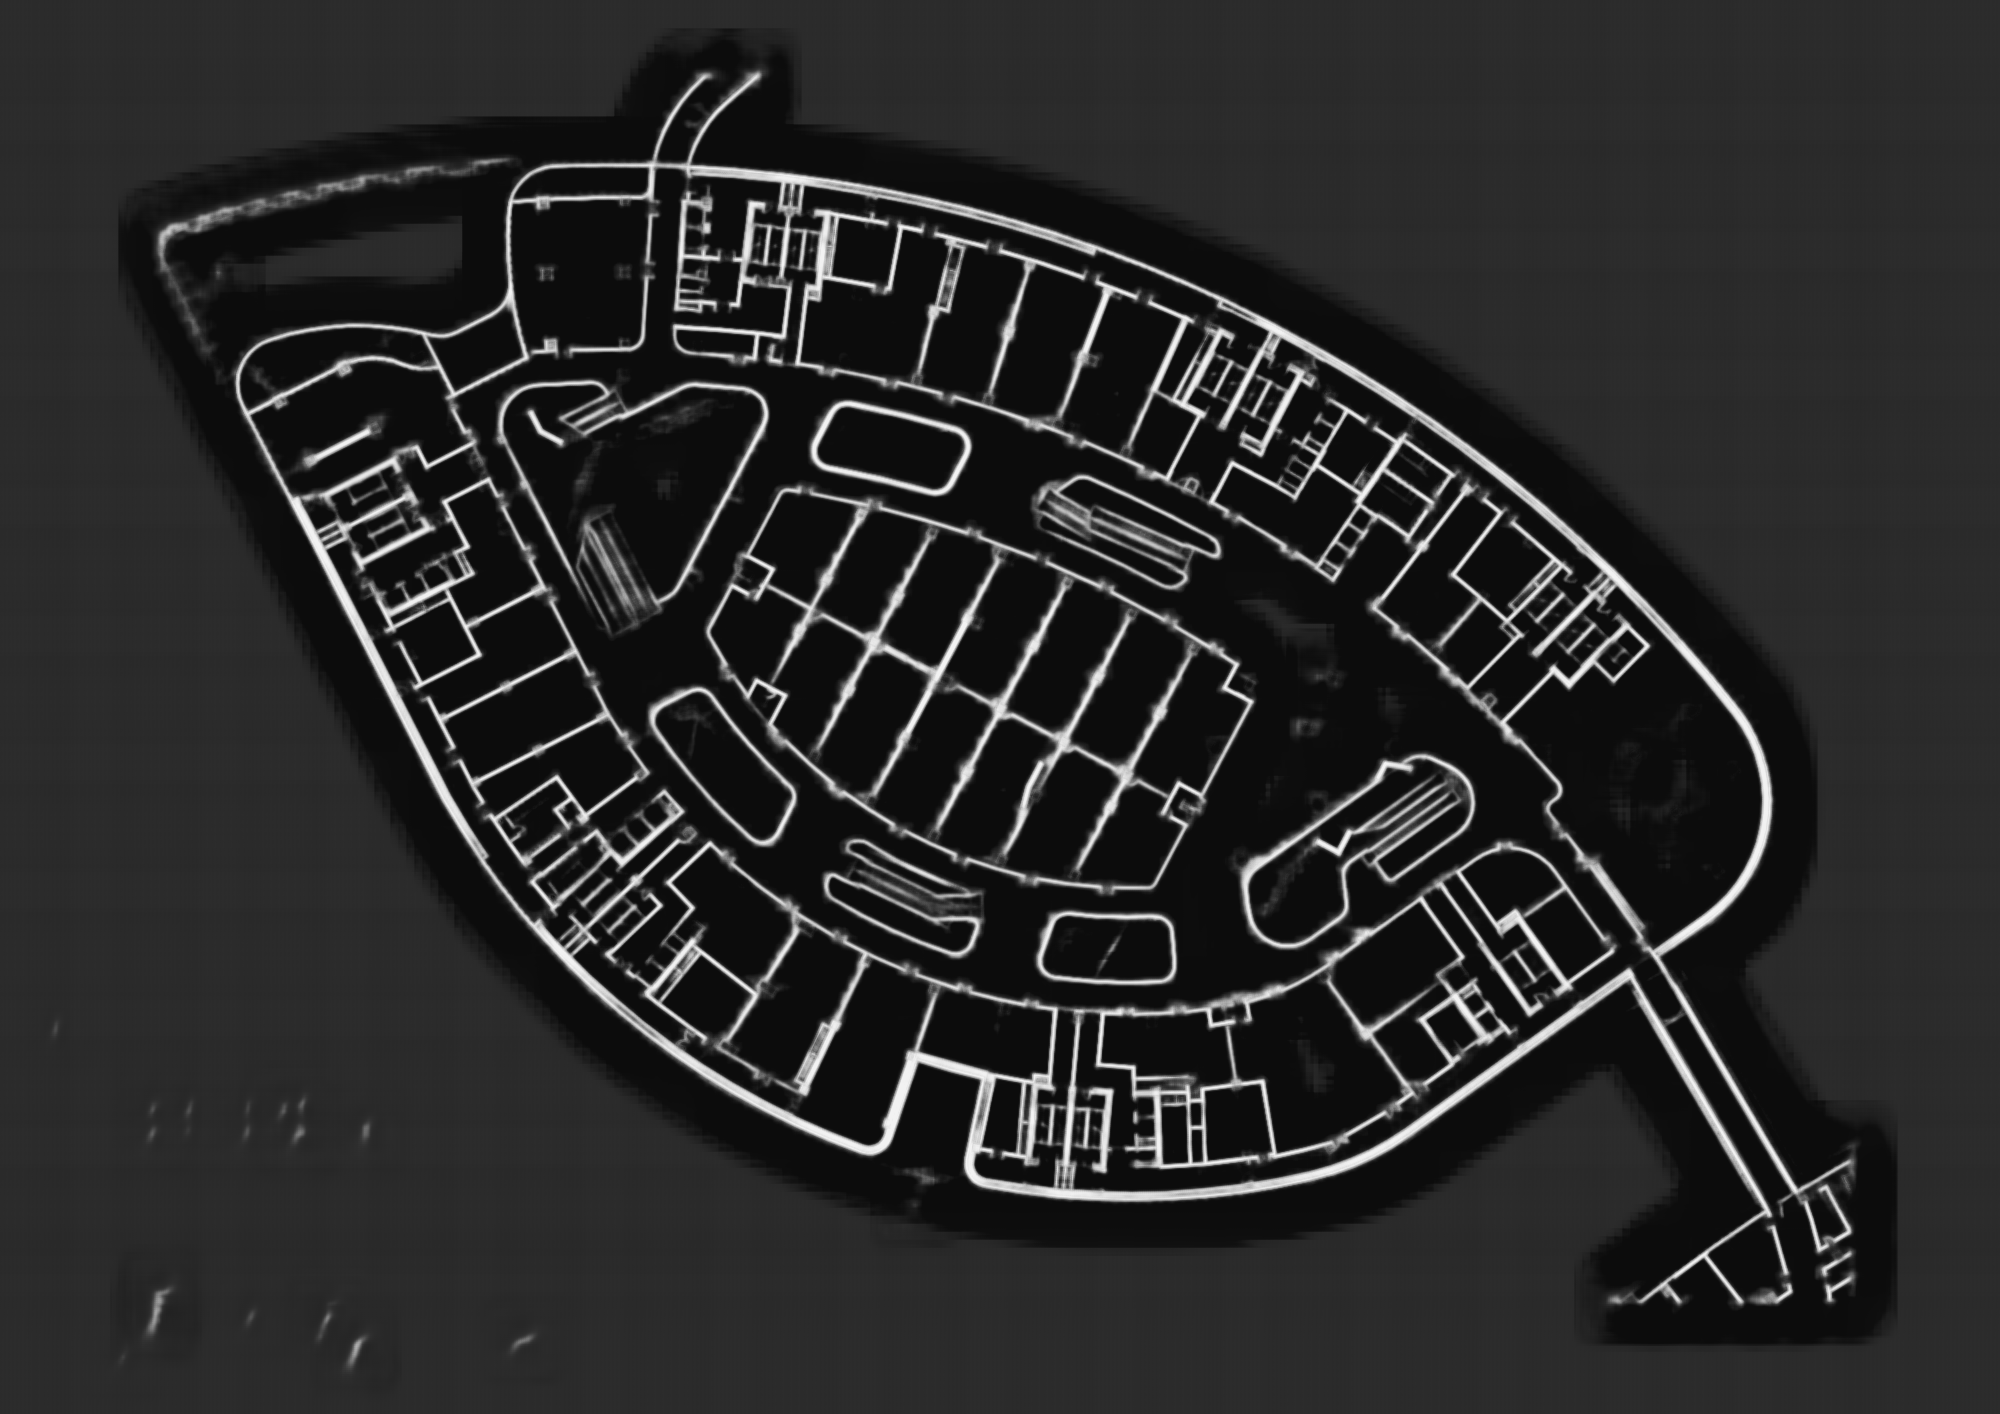
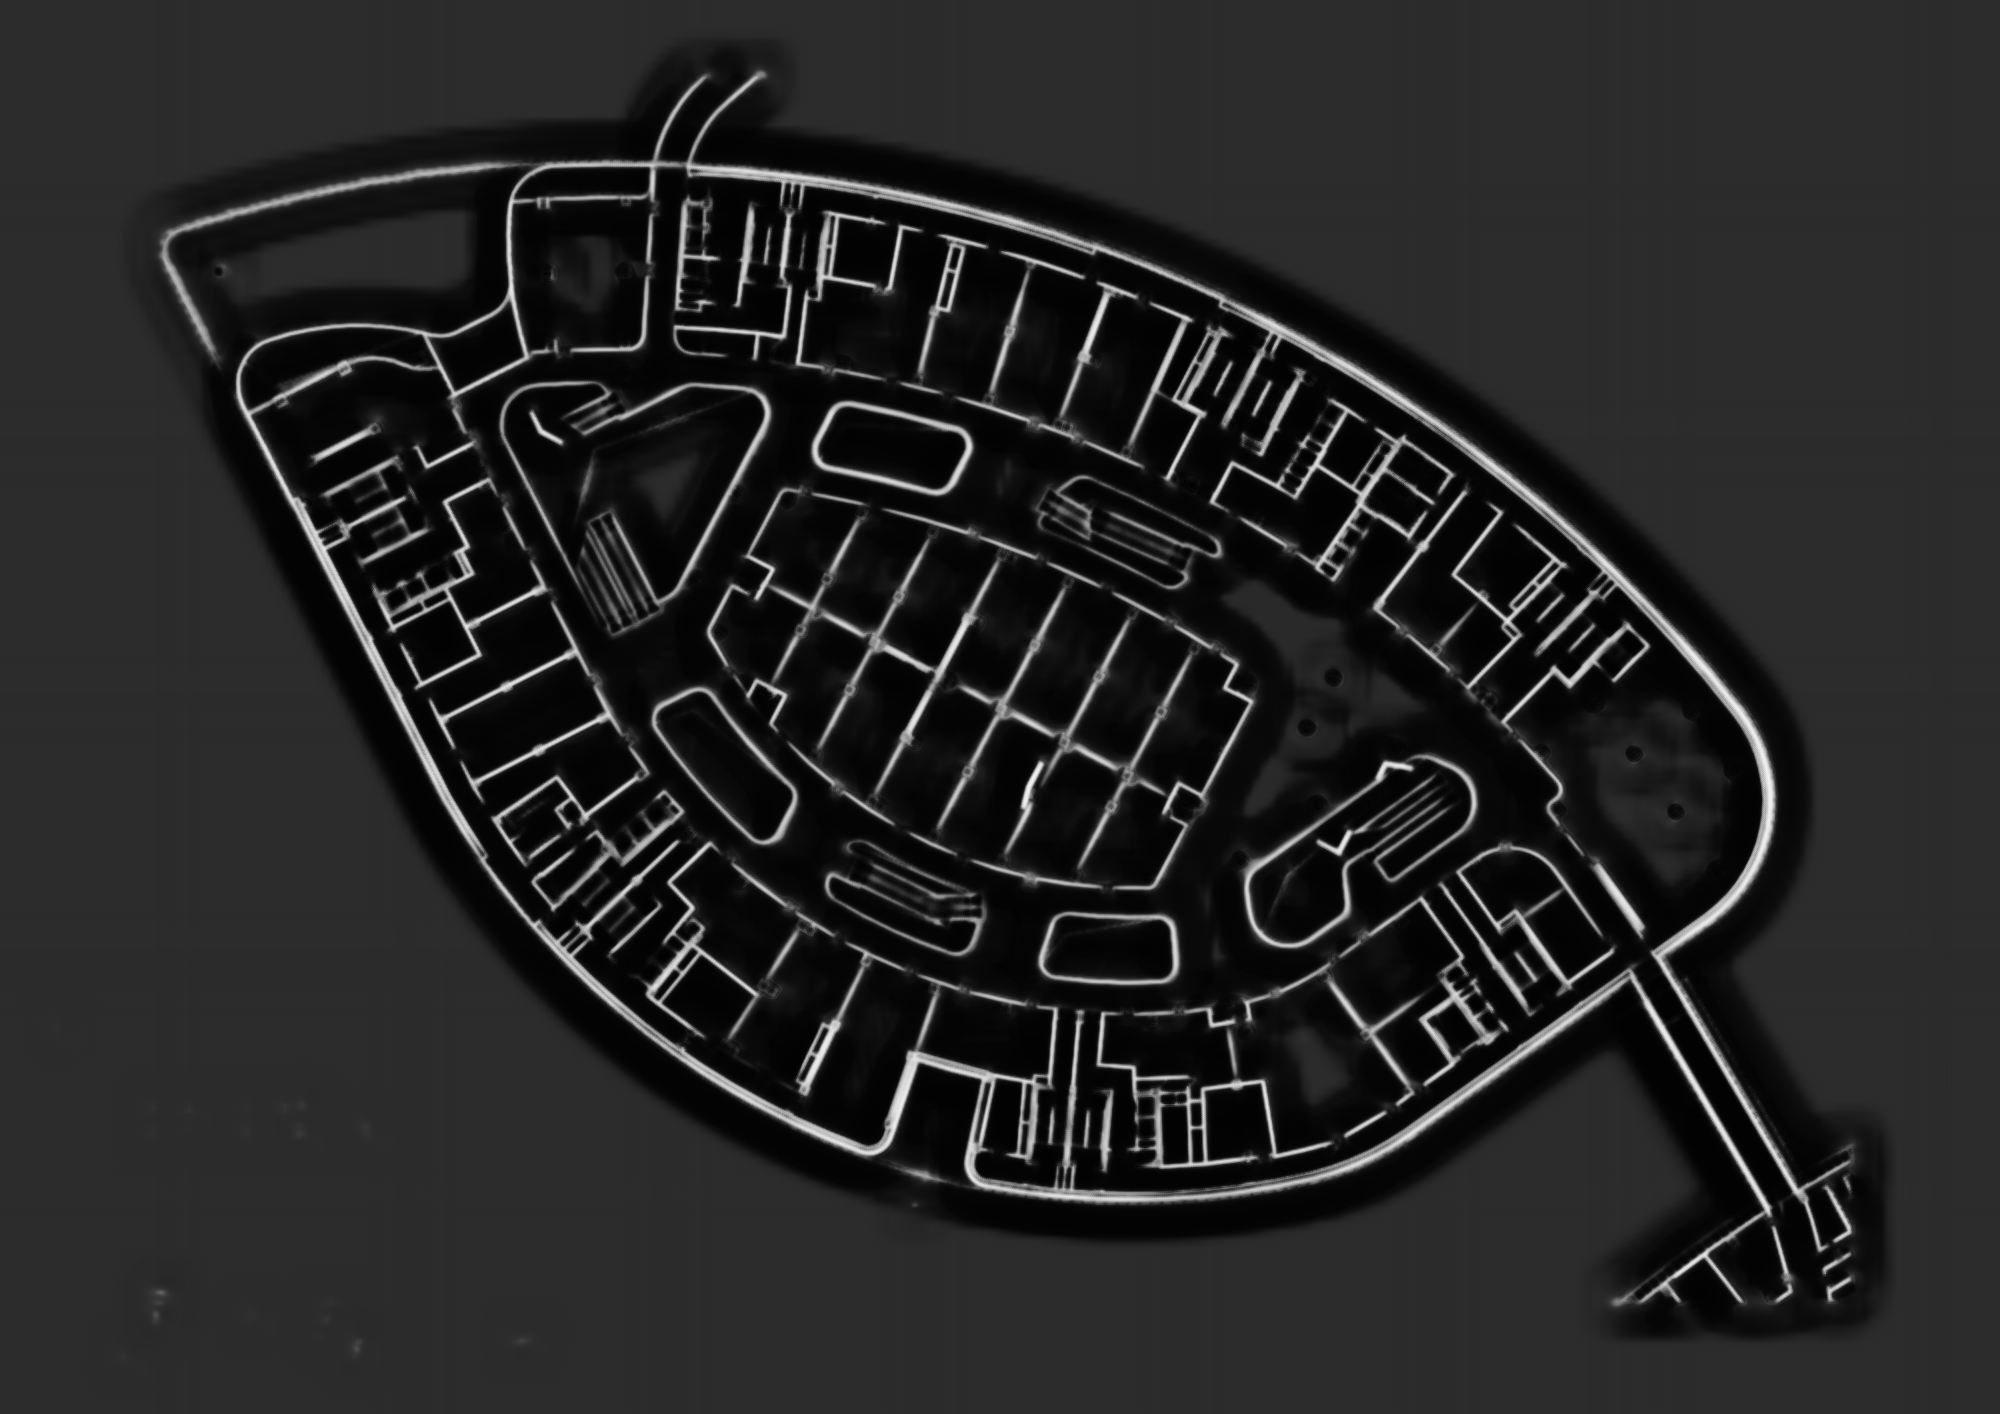
trying out TTA, OTSU and removed morpholofical fill and dialate

diff --git a/predict_tiled.py b/predict_tiled.py
@@ -29,7 +29,17 @@ Training sequence:
 """
 
 # ------------------------------ CONFIG ------------------------------
-PATCH_SIZE = 256
+PATCH_SIZE = 512
+"""
+this is the ammount of data the parser has access to while parsing 
+a single portion/segment, the more the number the more time consuming 
+it is gonna be and the smaller the littler context the parser has 
+about its enviorment, so the parsing becomes shitty
+
+N.B: make sure you change the default stride in the code or when parsing
+an image using the code and keep that to 50% of the PATCH_SIZE or else
+the parsing WILL BE INSANE...
+"""
 # --------------------------------------------------------------------
 
 def parse_args():
@@ -37,6 +47,7 @@ def parse_args():
     p.add_argument("--image",  required=True,              help="Path to input floorplan image")
     p.add_argument("--model",  default="unet.pth",         help="Path to model weights")
     p.add_argument("--stride", type=int, default=128,      help="Patch stride (lower = smoother)")
+    # here you can change the stride number by default it is 128, the bettre alternative is to use whatever you have in the patch size, the 50% of that(because that was kinda the benchmark to prove that this concept even works at the 1st place)
     p.add_argument("--output", default="stitched_mask.png", help="Output filename")
     return p.parse_args()
 
@@ -109,14 +120,38 @@ def main():
                 pw = PATCH_SIZE - patch.shape[1]
                 patch = cv2.copyMakeBorder(patch, 0, ph, 0, pw, cv2.BORDER_REFLECT_101)
 
+            # here the segment f used to parse a single patch once and then give an output
+            
             patch_tensor = preprocess_patch(patch, device)
             with torch.no_grad():
                 pred = model(patch_tensor)
             pred = torch.sigmoid(pred).squeeze().cpu().numpy()
-            pred = np.clip(pred, 0.05, 0.95)
+            pred = np.clip(pred, 0.01, 0.99)
+
+            # here we are trying out TTA(test time augmentaion) where it is going to parse the single patch more than once, 4 times to be exact and then give an weighted average of that parsing to make sure that the parsng is done right 
+
+            # tta_pairs = [
+            #     (lambda x: x,                                           lambda x: x),
+            #     (lambda x: np.flip(x, axis=0).copy(),                  lambda x: np.flip(x, axis=0).copy()),
+            #     (lambda x: np.flip(x, axis=1).copy(),                  lambda x: np.flip(x, axis=1).copy()),
+            #     (lambda x: np.flip(np.flip(x, axis=0), axis=1).copy(), lambda x: np.flip(np.flip(x, axis=0), axis=1).copy()),
+            # ]
+
+            # patch_pred = np.zeros((PATCH_SIZE, PATCH_SIZE), dtype=np.float32)
+            # for aug, inv in tta_pairs:
+            #     tensor = preprocess_patch(aug(patch), device)
+            #     with torch.no_grad():
+            #         pred = model(tensor)
+            #     pred = torch.sigmoid(pred).squeeze().cpu().numpy()
+            #     pred = np.clip(pred, 0.01, 0.99)
+            #     patch_pred += inv(pred)
+            # patch_pred /= len(tta_pairs)
 
             final_mask[y1:y1+PATCH_SIZE, x1:x1+PATCH_SIZE] += pred * weight_map
-            weight_sum[y1:y1+PATCH_SIZE, x1:x1+PATCH_SIZE] += weight_map
+            weight_sum[y1:y1+PATCH_SIZE, x1:x1+PATCH_SIZE] += weight_map      # non TTA 
+
+            # final_mask[y1:y1+PATCH_SIZE, x1:x1+PATCH_SIZE] += patch_pred * weight_map
+            # weight_sum[y1:y1+PATCH_SIZE, x1:x1+PATCH_SIZE] += weight_map        # TTA
 
             pbar.update(1)
 
@@ -132,11 +167,35 @@ def main():
     print("Debug mask saved: debug_raw_mask.png")
 
     # binarize
-    binary_mask = (final_mask > 0.5).astype(np.uint8)
-    kernel = np.ones((3, 3), np.uint8)
-    binary_mask = cv2.morphologyEx(binary_mask, cv2.MORPH_CLOSE, kernel)
-    binary_mask = cv2.morphologyEx(binary_mask, cv2.MORPH_OPEN, kernel)
-    binary_mask = cv2.dilate(binary_mask, np.ones((2, 2), np.uint8), iterations=1)
+    """
+    "final_mask > 0.5" - this number is actually a threashold
+    if the parser is not pickign up smaller walls in the given 
+    floorplan than try to decrease the number oa bit and try 
+    that out with the image.
+
+    fundamentally the threashold is working as a filter so when 
+    there is a wall in the floorplan that is thinner that it 
+    should be it(because then it might not b a wall), the threashold
+    limit filters it out of the binary image output.
+    """
+
+    # on some other universe this threasholding problem might have been solved by a automaion code, not here though(would have been nice)
+
+    # redundant code (otsu trial)
+    # raw_uint8 = (final_mask * 255).astype(np.uint8)
+    # otsu_thresh, binary_mask = cv2.threshold(raw_uint8, 0, 1, cv2.THRESH_BINARY + cv2.THRESH_OTSU)
+    # print(f"Otsu threshold: {otsu_thresh}/255")
+
+    binary_mask = (final_mask > 0.50).astype(np.uint8)
+
+    # this portion was not doing anything this is fully redundant 
+
+    # morphological fill 
+    # kernel = np.ones((3, 3), np.uint8)
+    # binary_mask = cv2.morphologyEx(binary_mask, cv2.MORPH_CLOSE, kernel)
+    # binary_mask = cv2.morphologyEx(binary_mask, cv2.MORPH_OPEN, kernel)
+    # morphological dialate
+    # binary_mask = cv2.dilate(binary_mask, np.ones((2, 2), np.uint8), iterations=1)
 
     # remove text / symbols
     # text blobs are small AND roughly square; walls are large AND elongated
@@ -147,7 +206,10 @@ def main():
         w_box  = stats[i, cv2.CC_STAT_WIDTH]
         h_box  = stats[i, cv2.CC_STAT_HEIGHT]
         aspect = max(w_box, h_box) / (min(w_box, h_box) + 1e-6)
-        if area < 80 and aspect < 3.0:
+        # if area < (H * W) * 0.00005 and aspect < 3.0:
+        # trying to if removing the blob filter makes the parsing better, the main probel right now is thet the doors that are placed in an angle are actually not parsing properly making a blob 
+        if area < (H * W) * 0.00005:
+            # cant just assume the tickness of the text in the image it has to be dynamic thats why "area < (H * W) * 0.00005"
             continue
         cleaned[labels == i] = 1
     binary_mask = cleaned
